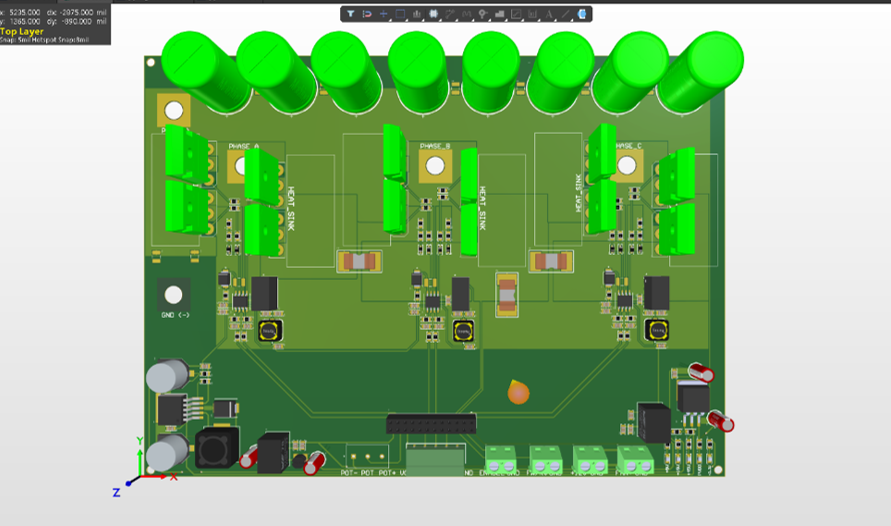
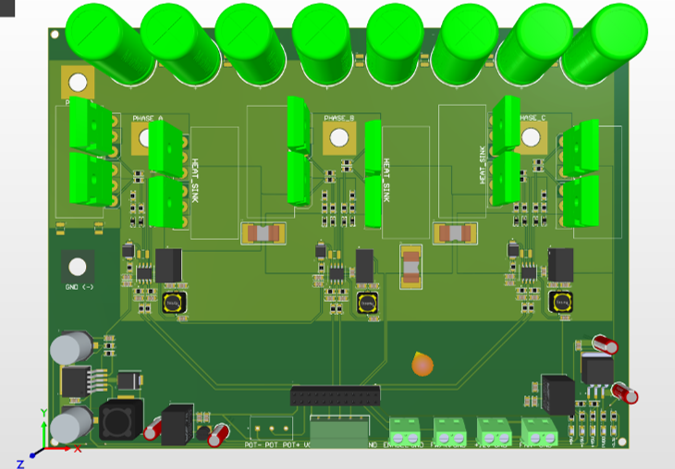
fix: update project-1 preview cover image to Resim33.png

diff --git a/data.js b/data.js
@@ -158,7 +158,7 @@ const PORTFOLIO_DATA = {
           "category": "guc-elektronigi",
           "summary": "Hidrojen enerjili araç güç aktarma sistemi için geliştirilen Vol.1 BLDC motor sürücü kartı; 48 V DC baradan 50 A nominal akım ve 2.5 kW güç seviyesinde üç fazlı motor kontrolü hedefleyen, STM32F446RET6 tabanlı bir güç elektroniği tasarımıdır. Kart; MOSFET yarım köprü katları, IRS2186 kapı sürücüleri, INA229 ölçüm hattı, Hall sensörü geri beslemesi, çok kademeli DC/DC besleme mimarisi ve akım/sıcaklık güvenli mod algoritmalarıyla ele alınmıştır.",
           "description": "Vol.1 motor sürücü çalışması, üç fazlı BLDC motorun hız, yön, akım ve sıcaklık geri beslemeleriyle güvenli biçimde sürülmesi için tasarlanan güç kartını açıklar. Word teknik tasarım dosyasındaki topoloji seçimi, 48 V / 50 A güç hedefi, MOSFET ve gate-driver seçimi, DC-link kondansatör hesabı, STM32 tabanlı kontrol algoritması, Proteus simülasyonları, Altium PCB çalışmaları, prototip testleri, verim hesabı, koruma algoritmaları ve malzeme listesi bu sayfaya aktarılmıştır.",
-          "image": "vol1/Resim29.png",
+          "image": "vol1/Resim33.png",
           "tags": [
                     "BLDC Motor Sürücü",
                     "STM32F446RET6",
@@ -198,7 +198,7 @@ const PORTFOLIO_DATA = {
           "subsystems": [],
           "analysis": "<p>Doğrulama ve güvenlik değerlendirmesi; prototip testleri, MOSFET kapı sinyali gözlemleri, buck dönüştürücü simülasyonları, güç kaybı hesabı, nominal verim yorumu, aşırı akım ve aşırı sıcaklık durumunda sistemi güvenli moda alan algoritmalar üzerinden yapılmıştır.</p><h4>4.6.Motor Sürücü Verimliliği</h4><strong class='method-subtitle'>Güç kaybı hesabı (En yüksek güç talebinde)</strong><br><p>Motor sürücü devresinin güç tüketimini hesaplamak için birkaç bileşenin güç tüketimini dikkate alınmıştır.</p><p>Toplamda 12 MOSFET bulunmaktadır ve her bir MOSFET'in güç kaybı, üzerinden geçen akıma ve iç direnç değerine bağlı olarak hesaplanmıştır. Bu hesaplamalar sonucunda, her bir MOSFET'in yaklaşık 47.5 watt güç kaybına neden olduğu belirlenmiştir. Toplamda 12 MOSFET bulunduğundan, MOSFET'lerin toplam güç kaybı 570 watt olarak hesaplanmıştır.</p><p>Ayrıca, her bir MOSFET sürücü devresi 80 watt güç tüketmektedir. Devrede toplamda 6 MOSFET sürücü bulunduğundan, bu sürücülerin toplam güç tüketimi 480 watt olarak belirlenmiştir.</p><p>Mikrodenetleyici olarak kullanılan STM32F446RET6'nın güç tüketimi ise 0.064 watt olarak hesaplanmıştır. Bu mikrodenetleyici, düşük güç tüketimi ve yüksek performansı ile motor kontrol uygulamaları için idealdir.</p><p>Pasif bileşenler ve diğer devre elemanlarının güç tüketimi ise yaklaşık 10 watt olarak tahmin edilmiştir. Bu bileşenler, devredeki enerji kayıplarının küçük bir kısmını oluşturur ancak yine de toplam güç tüketimi üzerinde etkisi vardır.</p><p>Sonuç olarak, motorun nominal gücü 2500 watt olarak belirlenmiş ve diğer bileşenlerin güç tüketimleri de dikkate alındığında, toplam güç tüketimi yaklaşık 3560 watt olarak hesaplanmıştır. 3560 watt, devrenin en kötü koşullardaki (maksimum) güç tüketimini yansıtmaktadır. Gerçek çalışma koşullarında, motor ve diğer bileşenler her zaman maksimum güç tüketimi ile çalışmayabilir, bu nedenle gerçek güç tüketimi daha düşük olabilir.</p><strong class='method-subtitle'>Yüzde verim değeri (Nominal güç talebinde)</strong><br><p>Motorun nominal olarak 48V ve 50A olarak tasarlandığı düşünüldüğünde, güç hesaplaması P=V.I formülü kullanılarak 2400 Watt olarak belirlenmiştir. Bu değer, motorun çalışma koşullarında sağlanan güç miktarını ifade eder. Ancak devrede kullanılan MOSFETlerin doğal bir direnci bulunmaktadır ve bu da 40 Watt gibi bir kayba yol açmaktadır. Bu kayıp yüzdesel olarak hesaplandığında, (40 / 2400) * 100 ≈ %1,67 gibi bir değere denk gelir.</p><h4>4.7.Motor Sürücü Koruması</h4><p>Motor sürücüde aşırı akım koruması ve aşırı sıcaklık koruması yapan algoritma vardır. Aşırı akım veya sıcaklık durumunda motora giden güç kesilmektedir ve sistem güvenli moda girmektedir.</p><strong class='method-subtitle'>Akım değerini ölçen algoritma</strong><br><p>Aşırı akım koruma algoritmasında INA229 entegresinden SPI haberleşme protokolü aracılığıyla akım verisi alınır. Ölçülen akım değerinin, akım sınırını geçmesi durumunda sistem güvenli moda girmektedir ve motor çalışmayı durdurmaktadır. Aşırı akım koruma algoritmasında gürültüden vb. sebeplerden dolayı anlık yanlış okunan veriler olması durumunda ise ufak bir kontrol fonksiyonu eklenmiştir.</p><div class='project-figure-grid inline-figure-flow'><figure class='project-figure-card'><img src='vol1/Resim39.png' alt='Akım değerini ölçen algoritma'><figcaption>Şekil 1. Akım değerini ölçen algoritma.</figcaption></figure></div><strong class='method-subtitle'>Sıcaklık Değerini ölçen algoritma</strong><br><p>Aşırı sıcaklık koruması yapan algoritma, sıcaklık verilerini INA229 entegresinden alır. Sıcaklığın, güvenlik sınırını geçmesi durumunda sistem güvenli moda alınır.</p><div class='project-figure-grid inline-figure-flow'><figure class='project-figure-card'><img src='vol1/Resim40.png' alt='Sıcaklık Değerini ölçen algoritma'><figcaption>Şekil 2. Sıcaklık Değerini ölçen algoritma.</figcaption></figure></div><strong class='method-subtitle'>Aşırı akım veya sıcaklık durumunda sistemi güvenli moda alan algoritma</strong><br><p>Bu algoritma, sistemin güvenlik moduna alındığı zaman devreye giren algoritmadır. Algoritma, temelinde 3 kısımdan oluşmaktadır. 1. bölümde motor çalışırken, sıcaklık, akım ve sistemi açık tutan “enable” tuşunun kontrolü yapılır. Bir sorun olmaması durumunda motor çalışmaya devam eder. Bir sorun olması durumunda ise algoritmanın 2. kısmına geçilir. Algoritmanın bu kısmına geçildikten sonra motor çalışmayı durdurur. 2. bölümde motora giden güç kesilir. Bu bölümde tek kontrol edilen şey pilotun pedala basıp basmadığıdır. Eğer pilot pedala basıp motoru döndürmek istiyorsa algoritma 2. bölümden çıkmaz ve motor hiçbir zaman dönmez. Pilot pedala basmaz ise algoritma 3. kısıma geçer. Bu bölümde sistemdeki tüm kontroller yapılır ve sistemde her şeyin düzgün çalıştığından emin olunur. Bir sorun olması durumunda o sorun çözülene kadar sistem güvenli modda kalmaya devam eder ve motor dönmez. Akım değerinin, sıcaklık değerinin ve sistemi başlatan “enable” tuşunun açık olması durumunda sistem güvenli moddan çıkar ve motor eskisi gibi dönmeye başlar.</p><div class='project-figure-grid inline-figure-flow'><figure class='project-figure-card'><img src='vol1/Resim41.png' alt='Aşırı akım veya sıcaklık durumunda sistemi güvenli moda alan algoritma'><figcaption>Şekil 3. Aşırı akım veya sıcaklık durumunda sistemi güvenli moda alan algoritma.</figcaption></figure></div><h4>4.8.Malzeme Listesi</h4><p>Malzeme listesi, tüm satın alma kalemlerini tek tek yığmak yerine kartın ana mühendislik bloklarını gösterecek şekilde sadeleştirildi. Bu yapı; güç anahtarlama, kontrol, ölçüm, koruma ve besleme hatlarının hangi bileşen gruplarıyla kurulduğunu daha okunabilir hale getirir.</p><div class='hud-table-wrap '><table class='hud-benchmark-table'><thead><tr><th>Bileşen Grubu</th><th>Tasarımda Kullanımı</th></tr></thead><tbody><tr><td>Güç anahtarlama katı</td><td>IXTH200N10T MOSFET ailesi ve üç fazlı köprü yapısı</td></tr><tr><td>Gate sürüş hattı</td><td>IRS2186 / IRS21867S yüksek ve düşük taraf sürücüleri</td></tr><tr><td>Kontrol birimi</td><td>STM32F446RET6 ARM Cortex-M4 mikrodenetleyici</td></tr><tr><td>Ölçüm ve koruma</td><td>INA229 akım, gerilim, güç ve sıcaklık izleme hattı</td></tr><tr><td>Besleme zinciri</td><td>TL783, LM2596HV, izole DC/DC ve 5 V / 3.3 V regülatörler</td></tr><tr><td>Yardımcı bileşenler</td><td>Direnç, kondansatör, indüktör, konnektör, LED ve pasif filtre elemanları</td></tr></tbody></table></div><p>Takım tarafından tasarlanan ve prototiplenen motor sürücü kartının teknik çıktı tablosu aşağıdaki gibidir.</p><div class='hud-table-wrap bldc-output-table'><table class='hud-benchmark-table'><thead><tr><th>Özellik</th><th>Değer/Açıklama</th></tr></thead><tbody><tr><td>Anahtar</td><td>IXTH200N10T</td></tr><tr><td>Sürücü Entegresi</td><td>IRS2186</td></tr><tr><td>Kontrolcü Entegresi</td><td>STM32F446RET6</td></tr><tr><td>Kontrol Algoritması</td><td>Kapalı Döngü</td></tr><tr><td>Koruma Devresi</td><td>80 Amper Sigorta</td></tr><tr><td>Elektrik Devre Tasarımı</td><td>https://drive.google.com/drive/folders/1wGStn39v0P4p8lhwLE1O9xsp7bxvO1Vs</td></tr><tr><td>Baskı Devre Kartı Tasarımı</td><td>https://drive.google.com/drive/folders/1wGStn39v0P4p8lhwLE1O9xsp7bxvO1Vs</td></tr><tr><td>Baskı Devre Kartı Üretimi</td><td>Kart, takım tarafından tasarlanıp üretici tarafından üretilmiştir. Dizgi işlemleri yine takım tarafından yapılmıştır.</td></tr><tr><td>Yazılım Algoritması</td><td>https://drive.google.com/file/d/1m-uZoBatOImtPA3g9t1bNuGejM1-A806/view?usp=drive_link</td></tr><tr><td>Simülasyon Çalışmaları</td><td>https://drive.google.com/drive/folders/1daJZh62l2uDtyko0J7pKTum_-fOd2yW3</td></tr><tr><td>Deneysel Çalışmalar</td><td>https://drive.google.com/drive/folders/1gFA6QfE45RP-FTSr6GWQxGa0K6CliWwN</td></tr><tr><td>Boyut (PCB / Donanım Kutusu)</td><td>200 x 150 mm PCB, 120 x 250 x 250 cm kutu</td></tr><tr><td>Güç / Akım / Gerilim</td><td>2.5 kW / 48 V / 50 A</td></tr><tr><td>Verim</td><td>%90</td></tr></tbody></table></div>",
           "achievements": "<p>Bu projenin sonunda yalnızca bir devre şeması değil, çalıştırılabilir ve test edilebilir bir BLDC motor sürücü kartı ortaya çıkarıldı. 48 V hat üzerinde 50 A nominal çalışma hedefi için üç fazlı güç katı, STM32 tabanlı kontrol algoritması, Hall sensörü geri beslemesi, akım/sıcaklık izleme ve güvenli moda alma mantığı aynı sistemde birleştirildi.</p><p>Çalışma; Altium Designer üzerinde PCB tasarımı, Proteus ortamında sürüş ve besleme simülasyonları, prototip kart üretimi, osiloskop ile kapı sinyali doğrulaması, kutulama ve termal yönetim kararlarıyla uçtan uca bir güç elektroniği geliştirme pratiği kazandırdı. Vol.1 çıktısı, sonraki motor kontrolcü revizyonları için gerçek testlerden öğrenilmiş bir referans kart ve tasarım altyapısı oluşturdu.</p><div class='project-output-access'><div><span class='visual-kicker'>// DESIGN_ARCHIVE</span><strong>Tasarım Dosyaları</strong><p>BLDC_2024, BLDC_2024_STM_UNIT ve MC330335-MC33039 2024 tasarım klasörleri repo içinde erişilebilir hale getirildi. Bu çıktı; şema, PCB ve kontrol birimi tasarım dosyalarının sonraki revizyonlarda yeniden incelenebilmesi için arşiv niteliği taşır.</p></div><a class='project-output-link' href='https://github.com/AhmetSoner/Portfolio/tree/main/Kartlar/BLDC%20S%C3%BCr%C3%BCc%C3%BC%202024' target='_blank' rel='noopener noreferrer'>Tasarım Dosyalarını Aç<i data-lucide='external-link'></i></a></div>",
-          "detailImage": "vol1/Resim29.png",
+          "detailImage": "vol1/Resim33.png",
           "teamIds": [
                     "team-hidroana"
           ],
@@ -649,7 +649,7 @@ const PORTFOLIO_DATA = {
           "category": "guc-elektronigi",
           "summary": "Vol.1 is a 48 V, 50 A, 2.5 kW three-phase BLDC motor driver board designed for an electric/hydrogen vehicle drivetrain. It combines a MOSFET bridge power stage, IRS2186 gate drivers, STM32F446RET6 control, INA229 measurement, Hall-sensor feedback, DC/DC rails, simulations, PCB layout, prototype tests, and current/temperature protection logic.",
           "description": "This page transfers the full technical design narrative of the Vol.1 BLDC driver document into the portfolio: topology selection, component choice, parameter calculations, control algorithm, simulation work, PCB design, production tests, efficiency estimation, protection algorithms, and bill of materials.",
-          "image": "vol1/Resim29.png",
+          "image": "vol1/Resim33.png",
           "tags": [
                     "BLDC Motor Driver",
                     "STM32F446RET6",
@@ -714,7 +714,7 @@ const PORTFOLIO_DATA = {
           ],
           "analysis": "<h4>4.6.Motor Sürücü Verimliliği</h4><strong class='method-subtitle'>Güç kaybı hesabı (En yüksek güç talebinde)</strong><br><p>Motor sürücü devresinin güç tüketimini hesaplamak için birkaç bileşenin güç tüketimini dikkate alınmıştır.</p><p>Toplamda 12 MOSFET bulunmaktadır ve her bir MOSFET'in güç kaybı, üzerinden geçen akıma ve iç direnç değerine bağlı olarak hesaplanmıştır. Bu hesaplamalar sonucunda, her bir MOSFET'in yaklaşık 47.5 watt güç kaybına neden olduğu belirlenmiştir. Toplamda 12 MOSFET bulunduğundan, MOSFET'lerin toplam güç kaybı 570 watt olarak hesaplanmıştır.</p><p>Ayrıca, her bir MOSFET sürücü devresi 80 watt güç tüketmektedir. Devrede toplamda 6 MOSFET sürücü bulunduğundan, bu sürücülerin toplam güç tüketimi 480 watt olarak belirlenmiştir.</p><p>Mikrodenetleyici olarak kullanılan STM32F446RET6'nın güç tüketimi ise 0.064 watt olarak hesaplanmıştır. Bu mikrodenetleyici, düşük güç tüketimi ve yüksek performansı ile motor kontrol uygulamaları için idealdir.</p><p>Pasif bileşenler ve diğer devre elemanlarının güç tüketimi ise yaklaşık 10 watt olarak tahmin edilmiştir. Bu bileşenler, devredeki enerji kayıplarının küçük bir kısmını oluşturur ancak yine de toplam güç tüketimi üzerinde etkisi vardır.</p><p>Sonuç olarak, motorun nominal gücü 2500 watt olarak belirlenmiş ve diğer bileşenlerin güç tüketimleri de dikkate alındığında, toplam güç tüketimi yaklaşık 3560 watt olarak hesaplanmıştır. 3560 watt, devrenin en kötü koşullardaki (maksimum) güç tüketimini yansıtmaktadır. Gerçek çalışma koşullarında, motor ve diğer bileşenler her zaman maksimum güç tüketimi ile çalışmayabilir, bu nedenle gerçek güç tüketimi daha düşük olabilir.</p><strong class='method-subtitle'>Yüzde verim değeri (Nominal güç talebinde)</strong><br><p>Motorun nominal olarak 48V ve 50A olarak tasarlandığı düşünüldüğünde, güç hesaplaması P=V.I formülü kullanılarak 2400 Watt olarak belirlenmiştir. Bu değer, motorun çalışma koşullarında sağlanan güç miktarını ifade eder. Ancak devrede kullanılan MOSFETlerin doğal bir direnci bulunmaktadır ve bu da 40 Watt gibi bir kayba yol açmaktadır. Bu kayıp yüzdesel olarak hesaplandığında, (40 / 2400) * 100 ≈ %1,67 gibi bir değere denk gelir.</p><h4>4.7.Motor Sürücü Koruması</h4><p>Motor sürücüde aşırı akım koruması ve aşırı sıcaklık koruması yapan algoritma vardır. Aşırı akım veya sıcaklık durumunda motora giden güç kesilmektedir ve sistem güvenli moda girmektedir.</p><strong class='method-subtitle'>Akım değerini ölçen algoritma</strong><br><p>Aşırı akım koruma algoritmasında INA229 entegresinden SPI haberleşme protokolü aracılığıyla akım verisi alınır. Ölçülen akım değerinin, akım sınırını geçmesi durumunda sistem güvenli moda girmektedir ve motor çalışmayı durdurmaktadır. Aşırı akım koruma algoritmasında gürültüden vb. sebeplerden dolayı anlık yanlış okunan veriler olması durumunda ise ufak bir kontrol fonksiyonu eklenmiştir.</p><div class='project-figure-grid inline-figure-flow'><figure class='project-figure-card'><img src='vol1/Resim39.png' alt='Akım değerini ölçen algoritma'><figcaption>Şekil 1. Akım değerini ölçen algoritma.</figcaption></figure></div><strong class='method-subtitle'>Sıcaklık Değerini ölçen algoritma</strong><br><p>Aşırı sıcaklık koruması yapan algoritma, sıcaklık verilerini INA229 entegresinden alır. Sıcaklığın, güvenlik sınırını geçmesi durumunda sistem güvenli moda alınır.</p><div class='project-figure-grid inline-figure-flow'><figure class='project-figure-card'><img src='vol1/Resim40.png' alt='Sıcaklık Değerini ölçen algoritma'><figcaption>Şekil 2. Sıcaklık Değerini ölçen algoritma.</figcaption></figure></div><strong class='method-subtitle'>Aşırı akım veya sıcaklık durumunda sistemi güvenli moda alan algoritma</strong><br><p>Bu algoritma, sistemin güvenlik moduna alındığı zaman devreye giren algoritmadır. Algoritma, temelinde 3 kısımdan oluşmaktadır. 1. bölümde motor çalışırken, sıcaklık, akım ve sistemi açık tutan “enable” tuşunun kontrolü yapılır. Bir sorun olmaması durumunda motor çalışmaya devam eder. Bir sorun olması durumunda ise algoritmanın 2. kısmına geçilir. Algoritmanın bu kısmına geçildikten sonra motor çalışmayı durdurur. 2. bölümde motora giden güç kesilir. Bu bölümde tek kontrol edilen şey pilotun pedala basıp basmadığıdır. Eğer pilot pedala basıp motoru döndürmek istiyorsa algoritma 2. bölümden çıkmaz ve motor hiçbir zaman dönmez. Pilot pedala basmaz ise algoritma 3. kısıma geçer. Bu bölümde sistemdeki tüm kontroller yapılır ve sistemde her şeyin düzgün çalıştığından emin olunur. Bir sorun olması durumunda o sorun çözülene kadar sistem güvenli modda kalmaya devam eder ve motor dönmez. Akım değerinin, sıcaklık değerinin ve sistemi başlatan “enable” tuşunun açık olması durumunda sistem güvenli moddan çıkar ve motor eskisi gibi dönmeye başlar.</p><div class='project-figure-grid inline-figure-flow'><figure class='project-figure-card'><img src='vol1/Resim41.png' alt='Aşırı akım veya sıcaklık durumunda sistemi güvenli moda alan algoritma'><figcaption>Şekil 3. Aşırı akım veya sıcaklık durumunda sistemi güvenli moda alan algoritma.</figcaption></figure></div><h4>4.8.Bill of Materials</h4><p>The material list is simplified around the main engineering blocks rather than listing every purchase line. This makes the power switching, control, sensing, protection, and power-rail structure easier to read.</p><div class='hud-table-wrap '><table class='hud-benchmark-table'><thead><tr><th>Component Group</th><th>Use in Design</th></tr></thead><tbody><tr><td>Power switching stage</td><td>IXTH200N10T MOSFET family and three-phase bridge structure</td></tr><tr><td>Gate-drive line</td><td>IRS2186 / IRS21867S high-side and low-side drivers</td></tr><tr><td>Control unit</td><td>STM32F446RET6 ARM Cortex-M4 microcontroller</td></tr><tr><td>Sensing and protection</td><td>INA229 current, voltage, power, and temperature monitoring</td></tr><tr><td>Power rails</td><td>TL783, LM2596HV, isolated DC/DC, and 5 V / 3.3 V regulators</td></tr><tr><td>Auxiliary parts</td><td>Resistors, capacitors, inductors, connectors, LEDs, and passive filters</td></tr></tbody></table></div><p>The technical output table of the designed and prototyped motor-driver board is shown below.</p><div class='hud-table-wrap bldc-output-table'><table class='hud-benchmark-table'><thead><tr><th>Feature</th><th>Value / Description</th></tr></thead><tbody><tr><td>Switching Device</td><td>IXTH200N10T</td></tr><tr><td>Driver IC</td><td>IRS2186</td></tr><tr><td>Controller IC</td><td>STM32F446RET6</td></tr><tr><td>Control Algorithm</td><td>Closed Loop</td></tr><tr><td>Protection Circuit</td><td>80 A fuse</td></tr><tr><td>Electrical Circuit Design</td><td>https://drive.google.com/drive/folders/1wGStn39v0P4p8lhwLE1O9xsp7bxvO1Vs</td></tr><tr><td>PCB Design</td><td>https://drive.google.com/drive/folders/1wGStn39v0P4p8lhwLE1O9xsp7bxvO1Vs</td></tr><tr><td>PCB Production</td><td>The board was designed by the team, manufactured externally, and assembled by the team.</td></tr><tr><td>Software Algorithm</td><td>https://drive.google.com/file/d/1m-uZoBatOImtPA3g9t1bNuGejM1-A806/view?usp=drive_link</td></tr><tr><td>Simulation Work</td><td>https://drive.google.com/drive/folders/1daJZh62l2uDtyko0J7pKTum_-fOd2yW3</td></tr><tr><td>Experimental Work</td><td>https://drive.google.com/drive/folders/1gFA6QfE45RP-FTSr6GWQxGa0K6CliWwN</td></tr><tr><td>Size (PCB / Enclosure)</td><td>200 x 150 mm PCB, 120 x 250 x 250 cm enclosure</td></tr><tr><td>Power / Current / Voltage</td><td>2.5 kW / 48 V / 50 A</td></tr><tr><td>Efficiency</td><td>90%</td></tr></tbody></table></div>",
           "achievements": "<p>The output of this project was not only a circuit schematic, but a testable BLDC motor-driver board. The three-phase power stage, STM32-based control algorithm, Hall feedback, current/temperature monitoring, and safe-mode logic were integrated around a 48 V, 50 A nominal operating target.</p><p>The work produced a practical power-electronics development baseline through Altium PCB design, Proteus simulations, prototype production, oscilloscope-based gate-signal validation, enclosure decisions, and thermal-management evaluation. Vol.1 became the reference board for later motor-controller revisions.</p><div class='project-output-access'><div><span class='visual-kicker'>// DESIGN_ARCHIVE</span><strong>Design Files</strong><p>The BLDC_2024, BLDC_2024_STM_UNIT, and MC330335-MC33039 2024 design folders are now available in the repository. This output archives the schematic, PCB, and control-unit design files for later revisions.</p></div><a class='project-output-link' href='https://github.com/AhmetSoner/Portfolio/tree/main/Kartlar/BLDC%20S%C3%BCr%C3%BCc%C3%BC%202024' target='_blank' rel='noopener noreferrer'>Open Design Files<i data-lucide='external-link'></i></a></div>",
-          "detailImage": "vol1/Resim29.png",
+          "detailImage": "vol1/Resim33.png",
           "teamIds": [
                     "team-hidroana"
           ],

diff --git a/project.html b/project.html
@@ -204,8 +204,8 @@
     </footer>
 
     <!-- JS Bağımlılıkları -->
-    <script src="data.js?v=3000"></script>
-    <script src="project.js?v=3000"></script>
-    <script src="app.js?v=3000"></script>
+    <script src="data.js?v=3100"></script>
+    <script src="project.js?v=3100"></script>
+    <script src="app.js?v=3100"></script>
 </body>
 </html>

diff --git a/index.html b/index.html
@@ -377,7 +377,7 @@
     </footer>
 
     <!-- Proje Verisi ve Ana Kontrolcü -->
-    <script src="data.js?v=3000"></script>
-    <script src="app.js?v=3000"></script>
+    <script src="data.js?v=3100"></script>
+    <script src="app.js?v=3100"></script>
 </body>
 </html>